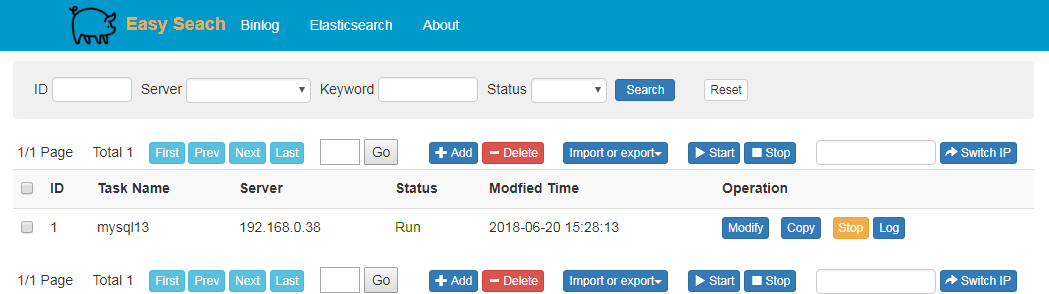
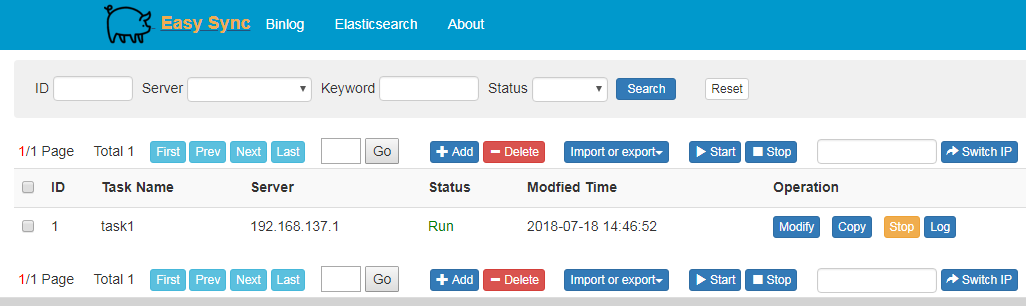
add manual

diff --git a/README.md b/README.md
@@ -1,1 +1,135 @@
-# easy-sync-parent
+# easy-sync
+
+Sync mysql to elasticsearch in real-time via binlog and kafka. 
+- Easy to use.
+- Support multi sync tasks without restart.
+- Change index structure smoothly without affecting online business.
+
+![demoͼ](docs/images/main.png)
+
+# How does it work?
+Binlog Task: Read binlog and send different tables' data to different kafka topics.  
+Elasticsearch Task: Each task read own kafka topic and write data to elasticsearch. 
+
+![system](docs/images/system.png)
+
+# Why use kafka?
+mysql binlog records all tables changes one by one. When you sync two tables to es, 
+one does not work will block another one. So we send two tables' data to kafka with different topics, 
+two tables will work independently.
+# Quick start
+- Install jdk(>=1.8),  install kafka(>=0.9.0.1)
+- jar -jar easy-sync.jar
+- Visit http://localhost:8080
+- Add and start binlog task, add then add and start elasticsearch task
+
+# Add binlog task
+- Mysql binlog enable config  
+1. enable binlog
+
+```
+[mysqld]
+log-bin=mysql-bin
+binlog-format=ROW
+server_id=1
+```
+
+2. create mysql user and grant REPLICATION privilege.
+
+```
+CREATE USER sync IDENTIFIED BY 'sync';  
+GRANT SELECT, REPLICATION SLAVE, REPLICATION CLIENT ON *.* TO 'sync'@'%';
+-- GRANT ALL PRIVILEGES ON *.* TO 'sync'@'%' ;
+FLUSH PRIVILEGES;
+```
+
+- At home page, click "Add" button to open a dialog. Finish fields "Task Name, mysql url/user/password,
+ kafka servers", click "Save" and "Close".  
+ "Server"(which machine task runs on) field needn't edit, default value is your local ip such as
+ "192.168.137.1"
+ 
+![add](docs/images/binlog-add.png)
+
+
+- A binlog task is in list, click "Start". 
+
+![start](docs/images/binlog-start.png)
+
+- Wait a few seconds, click "Log" button, a new window is opened and you can see some logs.
+  But you have not added any elasticsearch tasks, binlog task will not send any data to kafka.
+  You must continue to add elasticsearch task.
+  
+![log](docs/images/binlog-log.png)
+
+# Add elasticsearch task
+- Click top menu "Elasticsearch" , click "Add" button to open a new window, configure "Base Info" and "Datasource Config".
+  Task.  
+  Select mysql instance: select the binlog task "task1" you have just configured.
+  Database Names: existing databases such as "ershouji".
+  Table Names: an existing table such as "equipment". If you have more than on tables such as 
+  equipment_1,equipment_2 with the same structure, then use "equipment_%" or "equipment_1,equipment_2".
+  Primary key: currently only support increase, number type (for full sync).
+  
+![Datasource Config](docs/images/es-edit1.png)
+
+- Elasticsearch Config  
+  Be careful to select elasticsearch version.
+  
+![Elasticsearch Config](docs/images/es-edit2.png)
+
+- Field Mapping. Mapping for mysql and elasticsearch fields. Just click "Auto Mapping" button, all fields
+will be listed. Then you can delete or modify some fields.
+
+![Auto Mapping](docs/images/es-edit3.png)
+
+- Click "Save Config"
+- Click "Rebuild Index". This action will create new elasticsearch index and wait for task to start.
+- Switch to home page, refresh the page. You can see the task created, click "Start" button.
+- Wait a few seconds, click "Log" to see logs.
+
+![es log](docs/images/es-log.png)
+
+
+# FAQ
+- mysql versions  
+  binlog tools use https://github.com/shyiko/mysql-binlog-connector-java, so mysql 5.x or 8.x is supported.
+- kafka versions  
+  kafka client can use 0.9.0.1,0.10.1.0,0.11.0.1 three versions. Hight version kafka servers normally 
+  support low version clients. So you kafka server must >= 0.9.0.1
+- where does config store in?  
+  By default, config info stores in H2 database in user home such as C:\Users\xxx\easy_sync.  
+  You can create application.properties at the same directory as easy-sync.jar to change it.
+  Mysql or h2 database is supported.
+   ```
+  task.datasource.driverClassName=org.h2.Driver
+  task.datasource.url=jdbc:h2:tcp://localhost:9092/~/easy_sync;MODE=MYSQL
+  task.datasource.username=sa
+  task.datasource.password=
+  ```  
+- easy-sync cluster supports.  
+  You must have more than one computer nodes such as 192.168.0.10 and 192.168.0.11.
+  1.  At each node, create application.properties at the same directory as easy-sync.jar ,
+  add "cluster name" and "config storage datasource" to file.
+  ```
+  #cluster name , also is config table_name, default is easy_sync
+  task.factory.name=easy_sync
+  
+  #config storage datasource, support mysql or h2 database
+  task.datasource.driverClassName=com.mysql.jdbc.Driver
+  task.datasource.url=jdbc:mysql://192.168.0.13:3306/sync?useUnicode=true&characterEncoding=utf8&allowMultiQueries=true
+  task.datasource.username=xxxx
+  task.datasource.password=xxxx
+  ```
+  2. start easy_sync at each node.
+  3. configure you tasks. You can select which ip task runs on(set "server" to 192.168.0.10 
+  or 192.168.0.11 )
+  4. Once one node is down, it will auto switch to another node after a while ( You can see 
+  server ip changing from 192.168.0.10 to 192.168.0.11, but after the node is up again, the ip will
+  switch back)
+  
+-  Languages  
+  English and chinese is supported. Default is english, 
+  Add "language=cn" to application.properties to enable chinese.
+  
+
+
